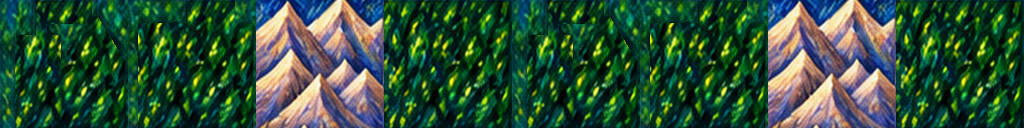
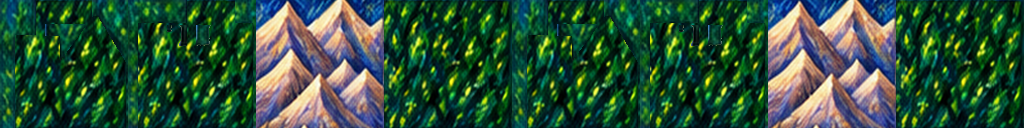
Clear background gaps below Van Gogh building flags

diff --git a/web/tests/expandedArt.test.ts b/web/tests/expandedArt.test.ts
@@ -161,6 +161,12 @@ describe('opt-in Van Gogh art package', () => {
       expect(changed).toBeGreaterThan(100);
       expect(background).toBeGreaterThan(1000);
     }
+    // Reviewed sky gaps under the flags stay clear in both animated cards.
+    for (const frame of [0, 1]) {
+      expect(cards(frame * 4 * 128 + 52, 30)[3]).toBe(0);
+      expect(cards((frame * 4 + 1) * 128 + 54, 35)[3]).toBe(0);
+      expect(cards((frame * 4 + 1) * 128 + 75, 35)[3]).toBe(0);
+    }
     // Cool-coloured interiors and pale outer walls must never become holes.
     for (const [slot, x, y] of [
       [0, 38, 65],

diff --git a/web/tools/prepare-van-gogh.py b/web/tools/prepare-van-gogh.py
@@ -196,6 +196,16 @@ for index,spec in building_specs.items():
     mask=Image.new('L',(N,N)); painter=ImageDraw.Draw(mask)
     painter.polygon(spec['outline'],fill=255)
     painter.rectangle((x0,y0,x1-1,y1-1),fill=255)
+    # Reviewed gaps below the cloth and between the pole and roof/towers.
+    # Alpha only: retain the original RGB and the complete classic tile.
+    if index == 6:
+        painter.polygon([(45,24),(86,24),(60,60),(60,35),(45,35)],fill=0)
+    else:
+        for y in range(25,46):
+            for x in list(range(39,59))+list(range(68,83)):
+                r,g,b,_=base.getpixel((x,y))
+                if g>r*1.1 and r<100:
+                    mask.putpixel((x,y),0)
     building_masks[index]=mask
 # Reviewed chest silhouettes for angled cards only. Keep the complete painted
 # tile in the classic atlas; this derived sheet changes alpha, never RGB paint.
